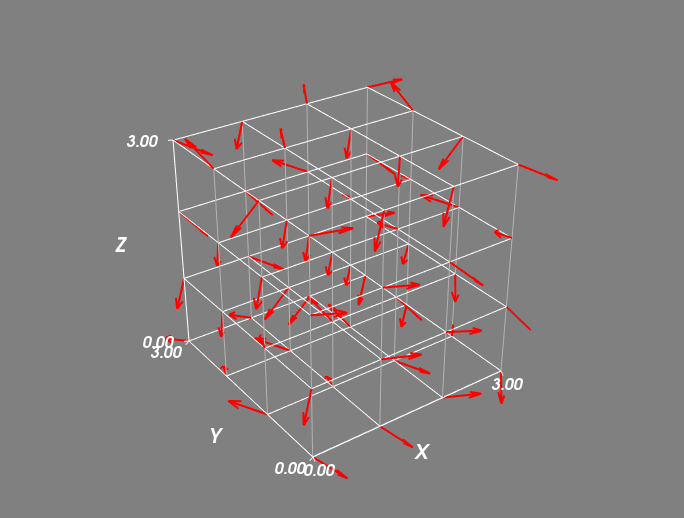
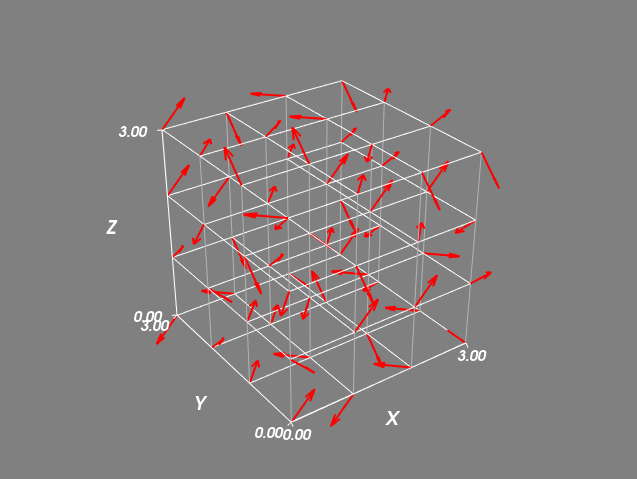
3D grid and gradients diagram

diff --git a/etc/lattice_gradients_3d.py b/etc/lattice_gradients_3d.py
@@ -2,11 +2,48 @@ import numpy as np
 from mayavi import mlab
 from tvtk.api import tvtk
 
-#gradient data
-from test_gradients import test_gradients_3d
-g=np.array(test_gradients_3d)
+#random number table
+p=[151,160,137,91,90,15,
+   131,13,201,95,96,53,194,233,7,225,140,36,103,30,69,142,8,99,37,240,21,10,23,
+   190, 6,148,247,120,234,75,0,26,197,62,94,252,219,203,117,35,11,32,57,177,33,
+   88,237,149,56,87,174,20,125,136,171,168, 68,175,74,165,71,134,139,48,27,166,
+   77,146,158,231,83,111,229,122,60,211,133,230,220,105,92,41,55,46,245,40,244,
+   102,143,54, 65,25,63,161, 1,216,80,73,209,76,132,187,208, 89,18,169,200,196,
+   135,130,116,188,159,86,164,100,109,198,173,186, 3,64,52,217,226,250,124,123,
+   5,202,38,147,118,126,255,82,85,212,207,206,59,227,47,16,58,17,182,189,28,42,
+   223,183,170,213,119,248,152, 2,44,154,163, 70,221,153,101,155,167, 43,172,9,
+   129,22,39,253, 19,98,108,110,79,113,224,232,178,185, 112,104,218,246,97,228,
+   251,34,242,193,238,210,144,12,191,179,162,241, 81,51,145,235,249,14,239,107,
+   49,192,214, 31,181,199,106,157,184, 84,204,176,115,121,50,45,127, 4,150,254,
+   138,236,205,93,222,114,67,29,24,72,243,141,128,195,78,66,215,61,156,180]
 
-N=g.shape[0]
+def hash(n,m,l):
+    return p[(p[(p[n%256]+m)%256]+l)%256]
+
+def calc_grad(n,m,l):
+    h=hash(n,m,l)&0b1111
+    return grad[h]
+
+grad=[
+(1,1,0),
+(-1,1,0),
+(1,-1,0),
+(-1,-1,0),
+(1,0,1),
+(-1,0,1),
+(1,0,-1),
+(-1,0,-1),
+(0,1,1),
+(0,-1,1),
+(0,1,-1),
+(0,-1,-1),
+(1,1,0),
+(0,-1,1),
+(-1,1,0),
+(0,-1,-1),
+]
+
+N=4
 
 #making plot data
 x=y=z=np.arange(0,N)
@@ -17,9 +54,9 @@ w=0.0*z
 for nx in range(N):
     for ny in range(N):
         for nz in range(N):
-            u[nx,ny,nz]=g[nz,ny,nx][0]
-            v[nx,ny,nz]=g[nz,ny,nx][1]
-            w[nx,ny,nz]=g[nz,ny,nx][2]
+            u[nx,ny,nz]=calc_grad(nz,ny,nx)[0]
+            v[nx,ny,nz]=calc_grad(nz,ny,nx)[1]
+            w[nx,ny,nz]=calc_grad(nz,ny,nx)[2]
 
 fig=mlab.figure()
 #fig.scene.parallel_projection = True
